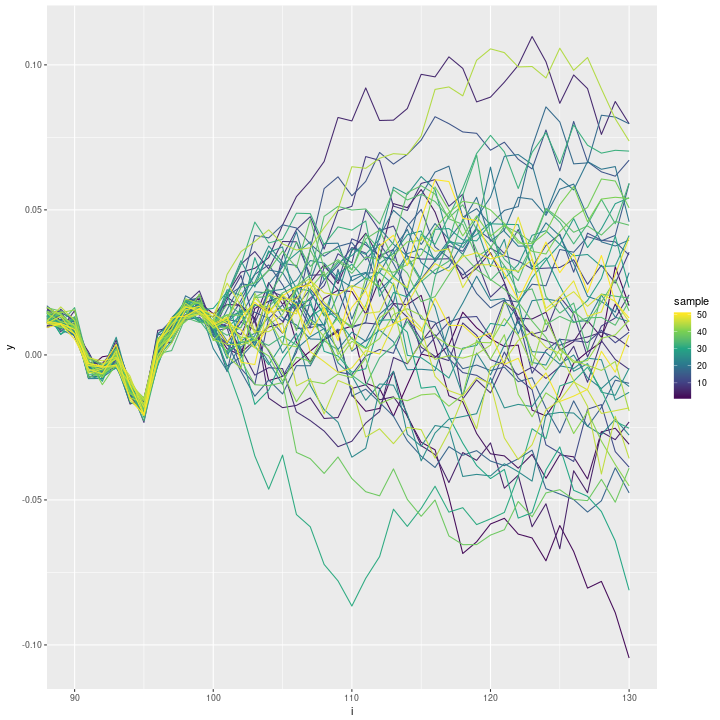
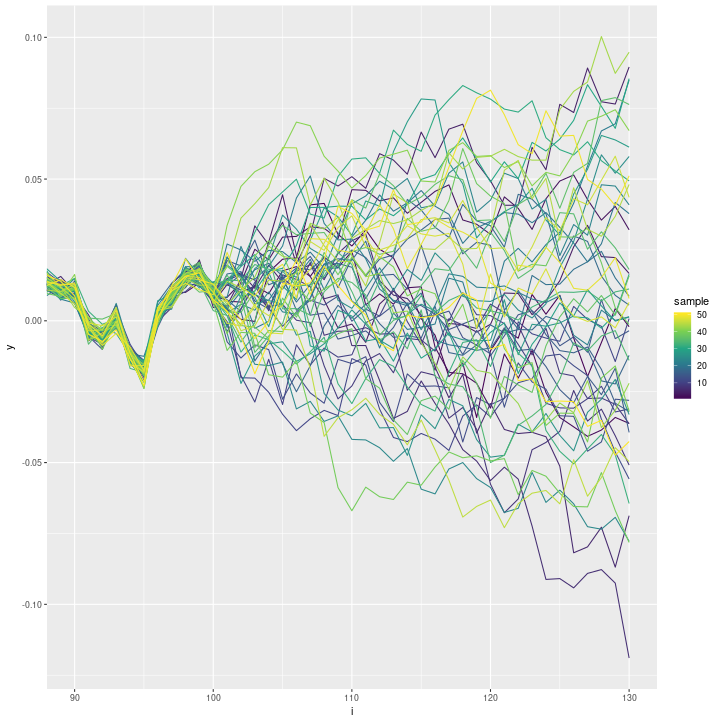
update, bugfix

diff --git a/sampler-problem.md b/sampler-problem.md
@@ -5,6 +5,16 @@ date: November 2017
 layout: default
 ---
 
+## Update:
+
+**The behavior described here is due to a bug in INLA which has been fixed in version 17.11.11.**
+
+(see the [thread](https://groups.google.com/forum/#!topic/r-inla-discussion-group/y7dAzbrXb6o) on the INLA discussion group)
+
+
+
+
+## Predicting a random walk
 
 
 
@@ -18,7 +28,35 @@ knitr::opts_chunk$set(
 )
 ```
 
-## Predicting a random walk
+
+```r
+inla.version()
+```
+
+```
+## 
+## 
+## 	INLA version ............: 17.06.20
+## 	INLA date ...............: Tue 20 Jun 12:36:50 JST 2017
+## 	INLA hgid ...............: Version_17.06.20
+## 	INLA-program hgid .......: Version_17.06.20
+## 	Maintainers .............: Havard Rue <hrue@r-inla.org>
+## 	                         : Finn Lindgren <finn.lindgren@gmail.com>
+## 	                         : Daniel Simpson <dp.simpson@gmail.com>
+## 	                         : Andrea Riebler <andrea.riebler@math.ntnu.no>
+## 	                         : Elias Teixeira Krainski <elias.krainski@math.ntnu.no>
+## 	                         : Geir-Arne Fuglstad <fulgstad@math.ntnu.no>
+## 	Main web-page ...........: www.r-inla.org
+## 	Download-page ...........: inla.r-inla-download.org
+## 	Email support ...........: help@r-inla.org
+## 	                         : r-inla-discussion-group@googlegroups.com
+## 	Source-code .............: bitbucket.org/hrue/r-inla
+```
+
+
+
+
+
 
 This example is to illustrate a problem with the posterior predictive sampling algorithm in R-INLA.
 
